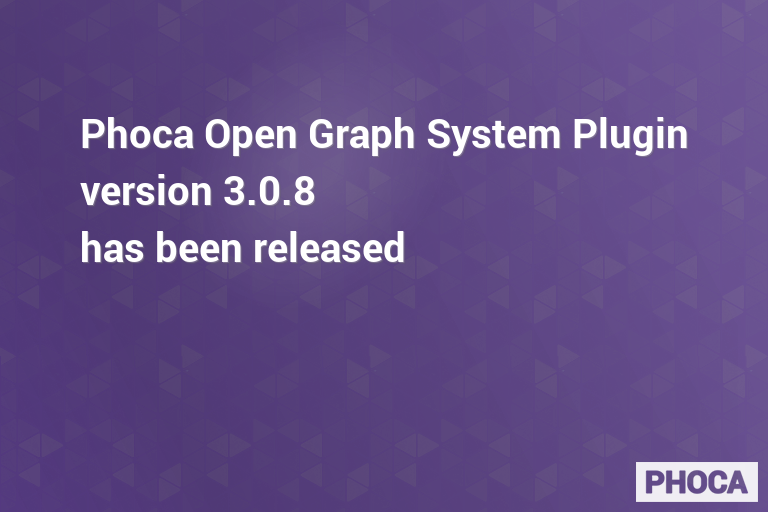
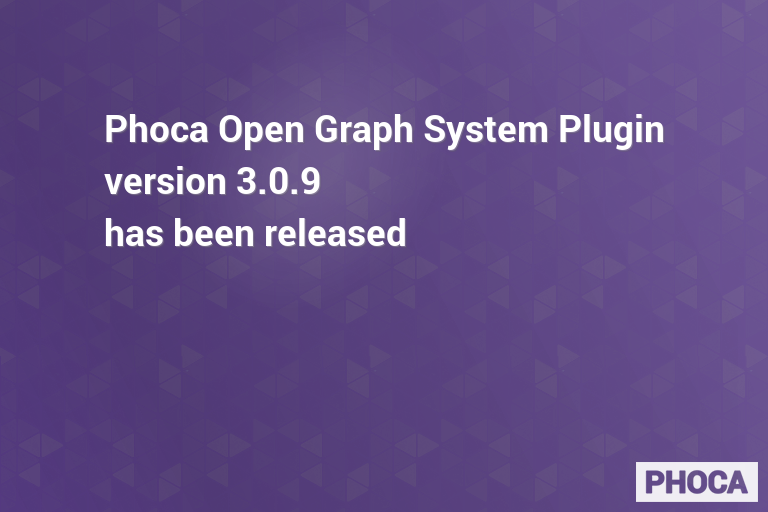
3.0.9
3.0.9

Changed region(s): [[0.0938, 0.2188, 0.9062, 0.4062], [0.0938, 0.4062, 0.5312, 0.5312]]

diff --git a/phocaopengraph.php b/phocaopengraph.php
@@ -107,7 +107,7 @@ class plgSystemPhocaOpenGraph extends JPlugin
 		$view	= $app->input->get('view');
 		$format = $app->input->get('format');
 
-		if ($format == 'feed' || $format == 'pdf' || $format == 'json' || $format == 'raw') {
+		if ($format == 'feed' || $format == 'pdf' || $format == 'json' || $format == 'raw' || $format == 'xml') {
 			return true;
 		}
 

diff --git a/README.MD b/README.MD
@@ -2,7 +2,7 @@
 
 
 
-![Phoca Open Graph System Plugin](https://github.com/PhocaCz/PhocaOpenGraphSystemPlugin/blob/master/phocaopengraph.png)
+![Phoca Open Graph System Plugin](https://github.com/PhocaCz/PhocaOpenGraphSystemPlugin/blob/master/phocaopengraph.png?raw=true)
 
 # Phoca Open Graph System Plugin
 
@@ -50,9 +50,13 @@ Phoca Open Graph System Plugin is a Joomla! CMS Plugin. It allows adding of open
 
 
 
+
+
+
+
 ## Version
 
-3.0.8
+3.0.9
 
 
 
